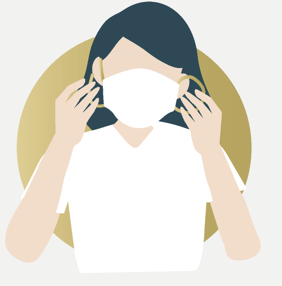
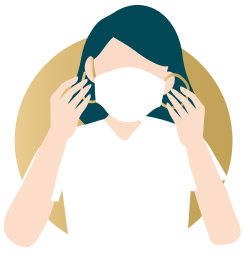
page covid

Changed region(s): [[0.0, 0.0, 1.0, 0.9502], [0.0, 0.7969, 0.0287, 0.8276]]

diff --git a/src/components/footer.js b/src/components/footer.js
@@ -26,29 +26,29 @@ const Footer = ({ data, xl }) => {
 
 
     return (
-        <div  className="position-relative footer-bg">
+        <div className="position-relative footer-bg">
             <Row className="container-xl-devices  center heigth-footer d-flex  align-items-center m-auto width-footer">
                 <Col sm="12" md="1" lg="1" className="right ">
                     <Link to="/">
-                        <Image src={data.logowhite}  className="logo-footer" alt="logo"/>
+                        <Image src={data.logowhite} className="logo-footer" alt="logo" />
                     </Link>
                 </Col>
                 <Col sm="12" md="2" lg="2">
                     <Row className="m-auto half-width">
                         {data.socialmedia.map((data, i) => (
-                            <Col className={renderSwitch(i)} sm="12" md="4" lg="4" key={"col-footer-icons-"+i}>
+                            <Col className={renderSwitch(i)} sm="12" md="4" lg="4" key={"col-footer-icons-" + i}>
                                 <a href={data.link} target="_blank" rel="noreferrer">
-                                    <Image src={data.icon} alt={data.alt} className="footer-icons"/>
+                                    <Image src={data.icon} alt={data.alt} className="footer-icons" />
                                 </a>
                             </Col>
                         ))}
                     </Row>
                 </Col>
                 {data.links.map((array, j) => (
-                    <Col sm="12" md="2" lg="2" key={"row-footer-text-"+j}>
+                    <Col sm="12" md="2" lg="2" key={"row-footer-text-" + j}>
                         <Row>
                             {array.map((item, k) => (
-                                <Col md="12" lg="12" sm="12"  key={"col-footer-text-"+k}>
+                                <Col md="12" lg="12" sm="12" key={"col-footer-text-" + k}>
                                     <Link to={item.link} className="footer-text left oMedium" target="_blank">
                                         {item.text}
                                     </Link>
@@ -58,10 +58,17 @@ const Footer = ({ data, xl }) => {
                     </Col>
 
                 ))}
-                <Col sm="12" md="3" lg="3" className="footer-text-bottom left">
-                    <p className="footer-text footer-text-bottom left oMedium mb-4">
-                        {data.copyrigths}
-                    </p>
+
+                <Col sm="12" md="3" lg="3" className="footer-text-bottom right mb-4">
+                    {data.copyrightsmobile.map((paragraph, j) => (
+                        <Row className="right" key={"row-footer-menu-paragraph-" + j}>
+                            <Col >
+                                <p className="footer-text footer-text-bottom right oMedium">
+                                    {paragraph}
+                                </p>
+                            </Col>
+                        </Row>
+                    ))}
                 </Col>
             </Row >
         </div >

diff --git a/src/components/formMobile.js b/src/components/formMobile.js
@@ -78,14 +78,14 @@ const FormMobile = ({ title }) => {
                     .match(
                         /^(([^<>()[\]\\.,;:\s@"]+(\.[^<>()[\]\\.,;:\s@"]+)*)|(".+"))@((\[[0-9]{1,3}\.[0-9]{1,3}\.[0-9]{1,3}\.[0-9]{1,3}\])|(([a-zA-Z\-0-9]+\.)+[a-zA-Z]{2,}))$/
                     )) {
-                        checkerTemp.push(" Email válido")
+                    checkerTemp.push(" Email válido")
                 }
             }
             if (!document.querySelector("#contact").value) {
                 checkerTemp.push(" Telemóvel")
             }
             if (document.querySelector("#contact").value) {
-                if(!isNumeric(document.querySelector("#contact").value) || document.querySelector("#contact").value.match(/\d/g).length!==9){
+                if (!isNumeric(document.querySelector("#contact").value) || document.querySelector("#contact").value.match(/\d/g).length !== 9) {
                     checkerTemp.push(" Telemóvel válido")
                 }
             }
@@ -104,7 +104,7 @@ const FormMobile = ({ title }) => {
                     checkerTemp.push(" Data válida")
                 }
             }
-            
+
         }
         if (!polCheck) {
             if (checkerTemp.length < 1) {
@@ -235,7 +235,13 @@ const FormMobile = ({ title }) => {
 
                                 </select>
 
-                                <input className="input-form gold oMedium mt-2" type="date" required id="date" name="date" />
+                                <input className="input-form gold oMedium mt-2" onFocus={
+                                    (e) => {
+                                        e.currentTarget.type = "date";
+                                        e.currentTarget.focus();
+                                    }
+                                }
+                                    placeholder="dd/mm/aaaa" type="date" required id="date" name="date" />
 
                                 <select className="input-form oMedium mt-2 mb-4" type="text" required placeholder="Horário" id="hours" name="hours" defaultValue={'DEFAULT'} >
                                     <option value="DEFAULT" disabled hidden>Horário</option>

diff --git a/src/pages/covid.js b/src/pages/covid.js
@@ -31,7 +31,7 @@ const NotFoundPage = ({ data, location }) => {
         <>
 
           <div className="no-repeat position-relative " >
-            <Image src={data.homeJson.background.top} alt="bg-top" className="position-absolute z-index-minus-1 max-width bg-cover  height-max" />
+            <Image src={data.homeJson.background.top} alt="bg-top" objectPosition="0% 60%" className="position-absolute z-index-minus-1 max-width bg-cover  height-max" />
             <Menu marcacaoRef={marcacaoRef} location={location} xl={breakpoints.xl} />
 
             <Covid data={data.covidJson} />
@@ -120,6 +120,7 @@ export const Json = graphql`
   footerJson{
     footer {
       logo
+      logomobile
       logowhite
       socialmedia {
         link

diff --git a/src/components/menuMobile.js b/src/components/menuMobile.js
@@ -70,7 +70,7 @@ const MenuMobile = ({ footer, marcacaoRef }) => {
         <div className="position-relative">
             <div className="section-space-mobile pt-4">
                 <Link to="/">
-                    <Image src={footer.logo} className="logo-upcare " alt="logo logo-upcare " />
+                    <Image src={footer.logomobile} className="logo-upcare " alt="logo logo-upcare " />
                 </Link>
             </div>
             <div>

diff --git a/src/components/Images.js b/src/components/Images.js
@@ -40,7 +40,7 @@ const Image = ({ src, alt,  className, ...rest }) => {
   const { node: { childImageSharp, publicURL, extension } = {} } = match
 
   if (extension === 'svg' || !childImageSharp) {
-    return <img src={publicURL} alt={alt} {...rest} />
+    return <img src={publicURL} alt={alt} className={className} {...rest} />
   }
 
   return <GatsbyImage image={childImageSharp.gatsbyImageData} {...rest} className={className} alt={alt}/>

diff --git a/src/sass/app.scss b/src/sass/app.scss
@@ -414,6 +414,7 @@ $background-modal: linear-gradient(to left top, #c9b07f, #bca26f, #af945f, #a286
 }
 .footer-icons-mobile {
     width: 60% !important;
+    margin: auto;
 }
 .logo-footer {
     width: calc(105px + 12 * (100vw - 769px) / 1151) !important;
@@ -1307,8 +1308,8 @@ input:focus-visible {
 
 /** START - COVID **/
 .img-passos {
-    width: 25vh;
-    height: 25vh;
+    width: 20vh;
+    height: 20vh;
 }
 /** END - COVID **/
 

diff --git a/src/templates/postTemplate.js b/src/templates/postTemplate.js
@@ -179,6 +179,7 @@ export const pageQuery = graphql`
       footerJson{
         footer {
         logo
+        logomobile
         logowhite
       socialmedia {
         link

diff --git a/src/pages/404.js b/src/pages/404.js
@@ -98,6 +98,7 @@ export const Json = graphql`
   footerJson{
     footer {
       logo
+      logomobile
       logowhite
       socialmedia {
         link

diff --git a/src/templates/pageTemplate.js b/src/templates/pageTemplate.js
@@ -192,6 +192,7 @@ export const Json = graphql`
           text
         }
       logo
+      logomobile
       logowhite
       socialmedia {
         alt

diff --git a/src/templates/subpageTemplate.js b/src/templates/subpageTemplate.js
@@ -150,6 +150,7 @@ export const Json = graphql`
           text
         }
       logo
+      logomobile
       logowhite
       socialmedia {
         alt

diff --git a/src/pages/contactos.js b/src/pages/contactos.js
@@ -167,6 +167,7 @@ query ContactoJson {
   footerJson{
     footer {
       logo
+      logomobile
       logowhite
       socialmedia {
         link

diff --git a/src/pages/politica-de-privacidade.js b/src/pages/politica-de-privacidade.js
@@ -66,6 +66,7 @@ query politicaJson {
   footerJson{
     footer {
       logo
+      logomobile
       logowhite
       socialmedia {
         link
